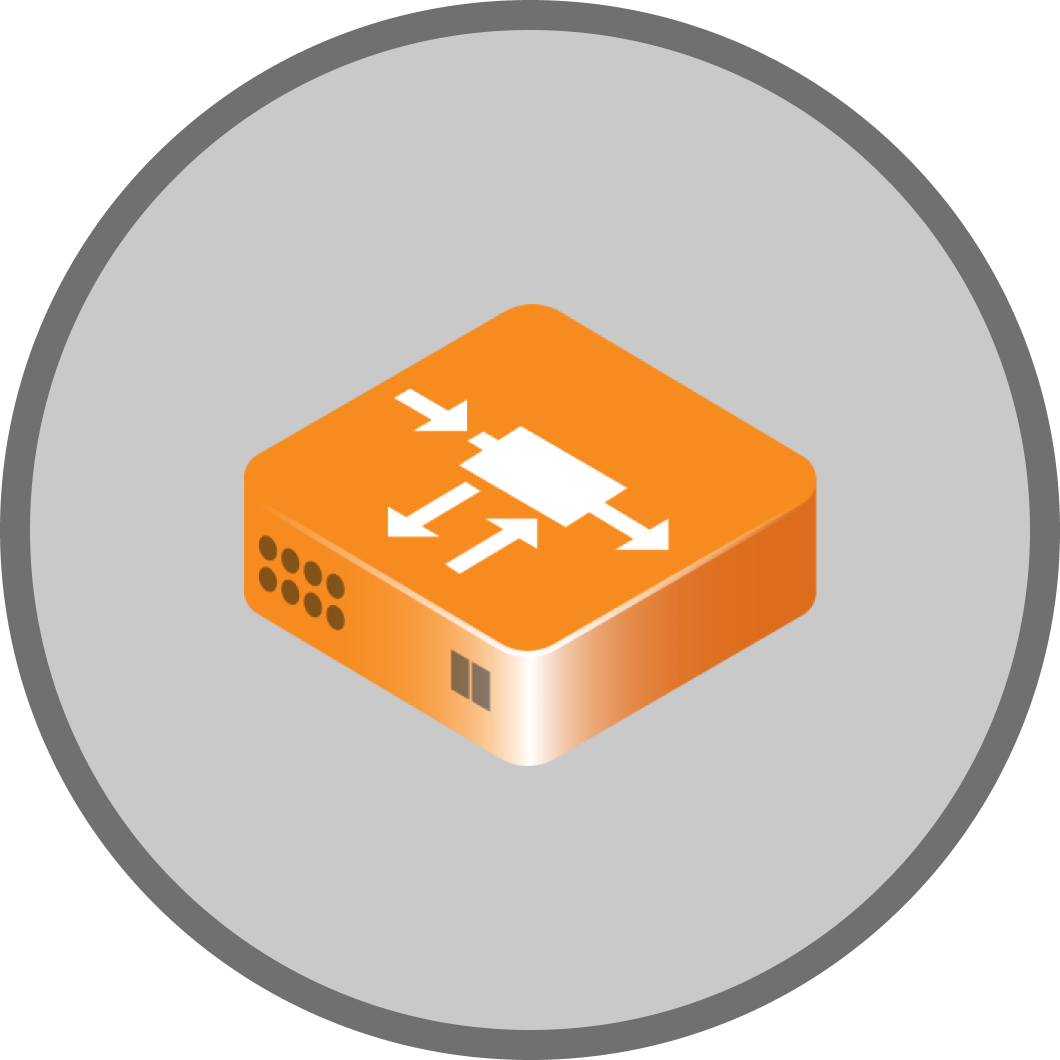
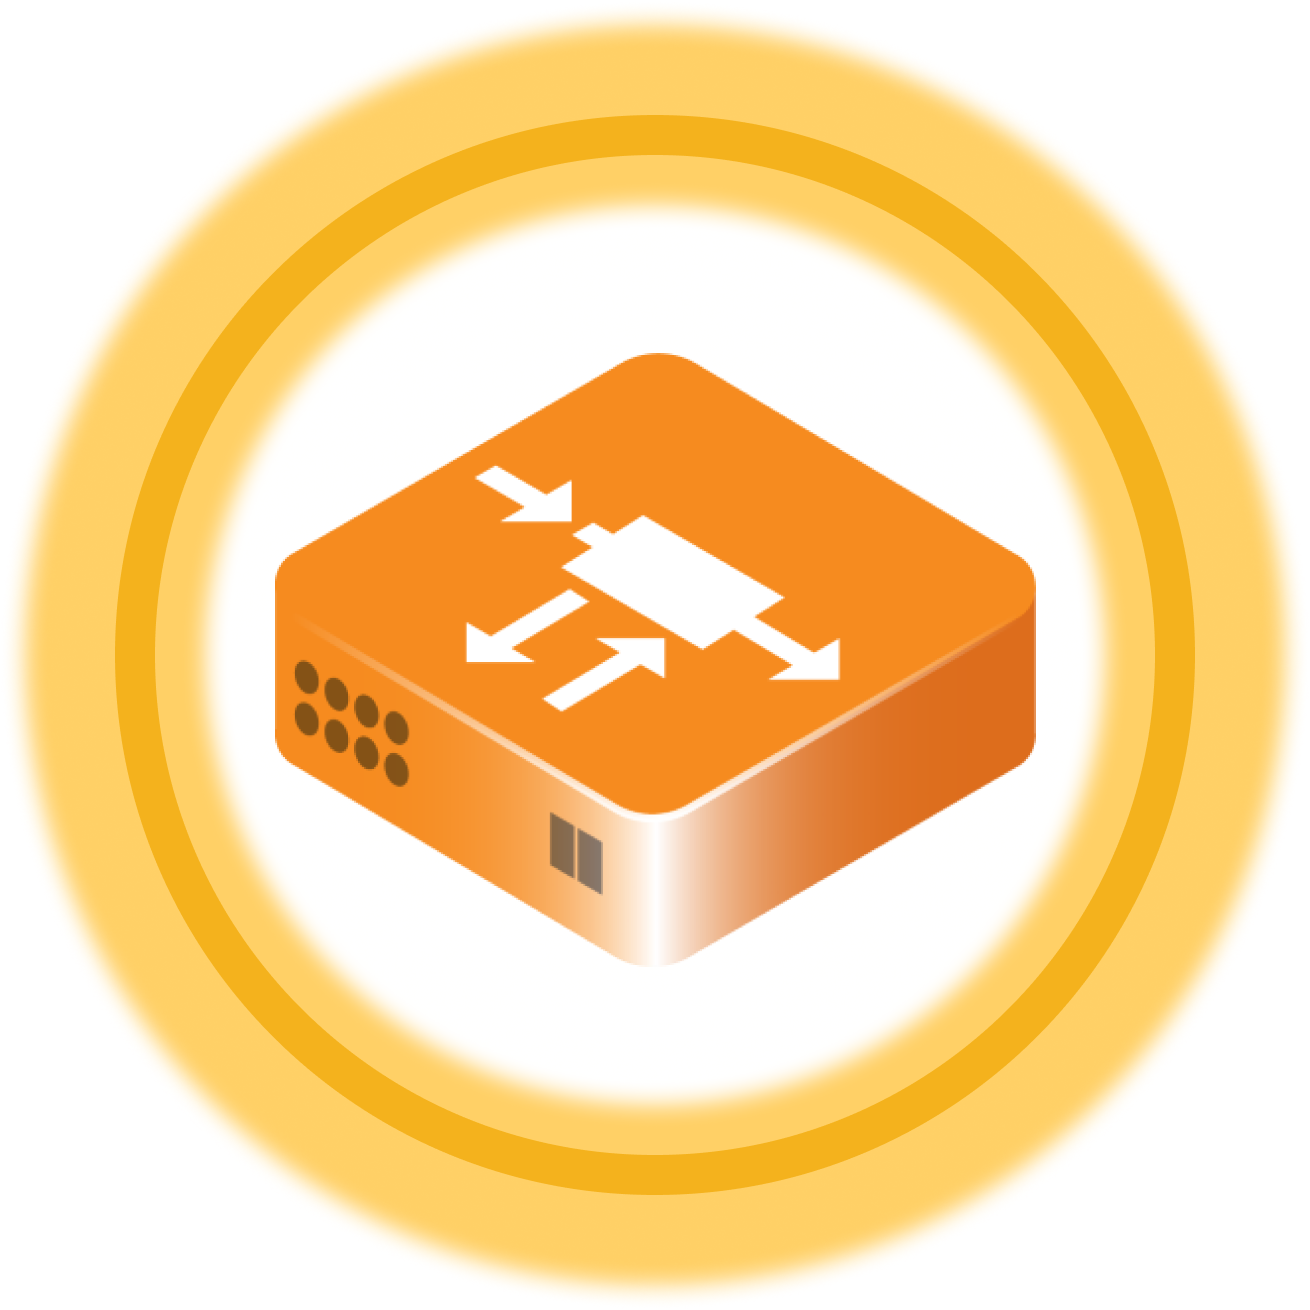
When we reselect a forced node we must highlight in a different way

diff --git a/js/Network Graph/stylenetwork.js b/js/Network Graph/stylenetwork.js
@@ -1451,7 +1451,6 @@ function draw(isImport) {
                 if (!nodeSelect) {
                     if (!network.body.nodes[clickedNode.id].selected) {
                         if (nodeDetails.h_image) {
-                            console.log("click event  - image : " + nodeDetails.h_image, "h image :" + nodeDetails.image);
                             network.body.data.nodes.update({
                                 id: nodeDetails.id, image: nodeDetails.h_image, h_image: nodeDetails.image, is_highlight: false
                             });
@@ -1528,10 +1527,16 @@ function draw(isImport) {
 
             }
             else {
-                if (copyDetails.amp_category != nodeDetails.amp_category) {
-                    showMessage(alertType.Error, 'Please select same type of node (' + type_name + ')');
-                    nodeSelect = true;
-                    return;
+                if (copyDetails.amp_category && nodeDetails.amp_category) {
+                    if (copyDetails.amp_category != nodeDetails.amp_category) {
+                        showMessage(alertType.Error, 'Please select same type of node (' + type_name + ')');
+                        nodeSelect = true;
+                        return;
+                    }
+                    else {
+                        $('#toast').toast('hide');
+                    }
+
                 }
                 else
                     $('#toast').toast('hide');
@@ -1540,41 +1545,60 @@ function draw(isImport) {
             if (params.event.srcEvent.ctrlKey) {
                 var image;
                 if (nodeDetails.node_type == roadmJSON.node_type) {
-
                     if (nodeDetails.image == DIR + roadmJSON.h_image) {
                         image = nodeDetails.h_image;
                     }
-                    else
-                        image = DIR + roadmJSON.h_image;
+                    else {
+                        if (nodeDetails.image == DIR + roadmJSON.w_image)
+                            image = DIR + roadmJSON.h_image;
+                        else if (nodeDetails.image == DIR + roadmJSON.image)
+                            image = DIR + roadmJSON.fh_image;
+                    }
                 }
                 else if (nodeDetails.node_type == fusedJSON.node_type) {
                     if (nodeDetails.image == DIR + fusedJSON.h_image) {
                         image = nodeDetails.h_image;
                     }
-                    else
-                        image = DIR + fusedJSON.h_image;
+                    else {
+                        if (nodeDetails.image == DIR + fusedJSON.w_image)
+                            image = DIR + fusedJSON.h_image;
+                        else if (nodeDetails.image == DIR + fusedJSON.image)
+                            image = DIR + fusedJSON.fh_image;
+                    }
                 }
                 else if (nodeDetails.node_type == transceiverJSON.node_type) {
                     if (nodeDetails.image == DIR + transceiverJSON.h_image) {
                         image = nodeDetails.h_image;
                     }
-                    else
-                        image = DIR + transceiverJSON.h_image;
+                    else {
+                        if (nodeDetails.image == DIR + transceiverJSON.w_image)
+                            image = DIR + transceiverJSON.h_image;
+                        else if (nodeDetails.image == DIR + transceiverJSON.image)
+                            image = DIR + transceiverJSON.fh_image;
+                    }
                 }
                 else if (nodeDetails.node_type == amplifierJSON.node_type) {
                     if (nodeDetails.amp_category == amplifierJSON.amp_category) {
                         if (nodeDetails.image == DIR + amplifierJSON.h_image) {
                             image = nodeDetails.h_image;
                         }
-                        else
-                            image = DIR + amplifierJSON.h_image;
+                        else {
+                            if (nodeDetails.image == DIR + amplifierJSON.w_image)
+                                image = DIR + amplifierJSON.h_image;
+                            else if (nodeDetails.image == DIR + amplifierJSON.image)
+                                image = DIR + amplifierJSON.fh_image;
+                        }
                     }
                     else if (nodeDetails.amp_category == ramanampJSON.amp_category) {
                         if (nodeDetails.image == DIR + ramanampJSON.h_image) {
                             image = nodeDetails.h_image;
                         }
-                        else
-                            image = DIR + ramanampJSON.h_image;
+                        else {
+                            if (nodeDetails.image == DIR + ramanampJSON.w_image)
+                                image = DIR + ramanampJSON.h_image;
+                            else if (nodeDetails.image == DIR + ramanampJSON.image)
+                                image = DIR + ramanampJSON.fh_image;
+                        }
                     }
                 }
 
@@ -1752,7 +1776,7 @@ function draw(isImport) {
                 if (network.body.data.nodes.get(sNodes[0].id).node_type == network.body.data.nodes.get(sNodes[i].id).node_type) {
                     if ((network.body.data.nodes.get(sNodes[0].id).node_type == network.body.data.nodes.get(sNodes[i].id).node_type) && network.body.data.nodes.get(sNodes[0].id).node_type == amplifierJSON.node_type) {
                         if (network.body.data.nodes.get(sNodes[0].id).amp_category == network.body.data.nodes.get(sNodes[i].id).amp_category)
-                            nodesArray.push(data.nodes[i]);
+                            nodesArray.push(sNodes[i].id);
 
                     }
                     else
@@ -1762,7 +1786,6 @@ function draw(isImport) {
         }
         else
             nodesArray.push(nodeData);
-
 
 
         if (type == serviceJSON.component_type) {
@@ -6047,7 +6070,7 @@ function updateAmplifier(nodeID) {
                 var preUpdateList = [];
                 for (var i = 0; i < nodeID.length; i++) {
 
-                    if (network.body.data.nodes.get(nodeID[i]).image == DIR + amplifierJSON.h_image) {
+                    if (network.body.data.nodes.get(nodeID[i]).image == DIR + amplifierJSON.h_image || network.body.data.nodes.get(nodeID[i]).image == DIR + amplifierJSON.fh_image) {
                         preUpdateList.push(network.body.data.nodes.get(nodeID[i]));
                         network.body.data.nodes.update({
                             id: nodeID[i], amp_type: $("#ddlAmplifierType").val()
@@ -6193,7 +6216,7 @@ function updateRamanAmp(nodeID) {
             if (nodeID.length > 1) {
                 var preUpdateList = [];
                 for (var i = 0; i < nodeID.length; i++) {
-                    if (network.body.data.nodes.get(nodeID[i]).image == DIR + ramanampJSON.h_image) {
+                    if (network.body.data.nodes.get(nodeID[i]).image == DIR + ramanampJSON.h_image || network.body.data.nodes.get(nodeID[i]).image == DIR + ramanampJSON.fh_image) {
                         preUpdateList.push(network.body.data.nodes.get(nodeID[i]));
                         network.body.data.nodes.update({
                             id: nodeID[i], amp_type: $("#ddlRamanAmpType").val(), category: $("#ddlRamanAmpCategory").val()
@@ -6312,7 +6335,7 @@ function updateTransceiver(nodeID) {
         if (nodeID.length > 1) {
             var preUpdateList = [];
             for (var i = 0; i < nodeID.length; i++) {
-                if (network.body.data.nodes.get(nodeID[i]).image == DIR + transceiverJSON.h_image) {
+                if (network.body.data.nodes.get(nodeID[i]).image == DIR + transceiverJSON.h_image || network.body.data.nodes.get(nodeID[i]).image == DIR + transceiverJSON.fh_image) {
                     var id = nodeID[i];
                     var label = $("#txtTransceiverName").val().trim();
                     var nodeDetails = network.body.data.nodes.get(id);
@@ -8602,7 +8625,6 @@ function remove_NodeHighlight() {
 
         if (nodeDetails.node_type == roadmJSON.node_type) {
             if (nodeDetails.image != DIR + roadmJSON.image) {
-                console.log('hai' + nodeDetails.image, 'h : ' + nodeDetails.h_image);
                 if (nodeDetails.h_image == DIR + roadmJSON.h_image) {
                     network.body.data.nodes.update({
                         id: nodeDetails.id, image: nodeDetails.image, h_image: nodeDetails.h_image, is_highlight: false
